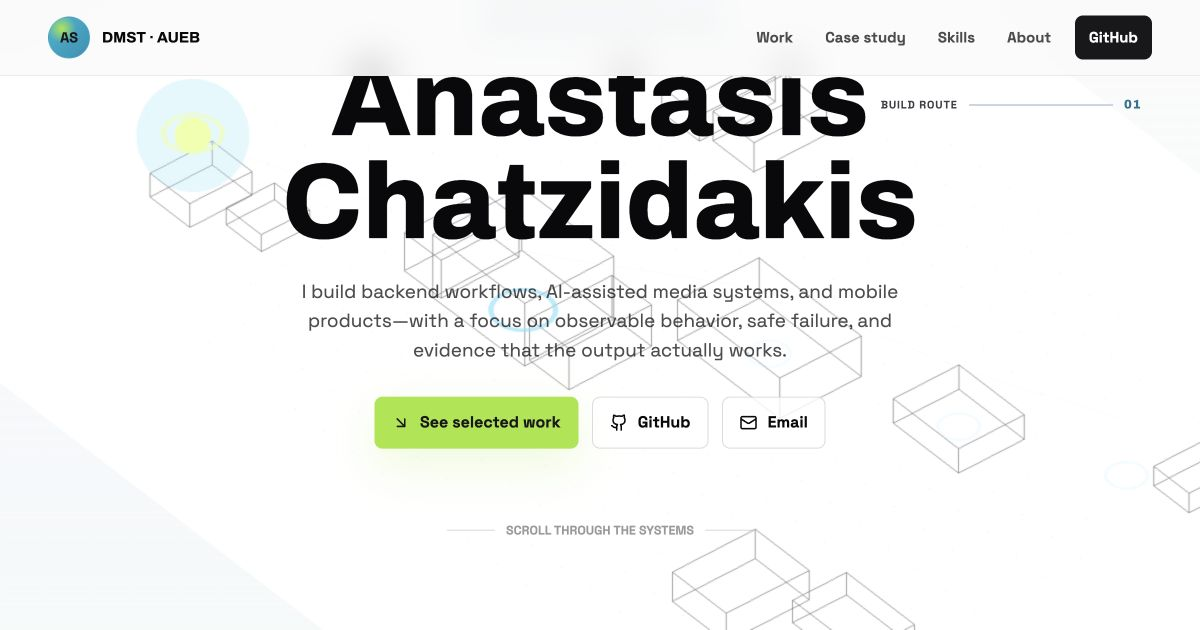
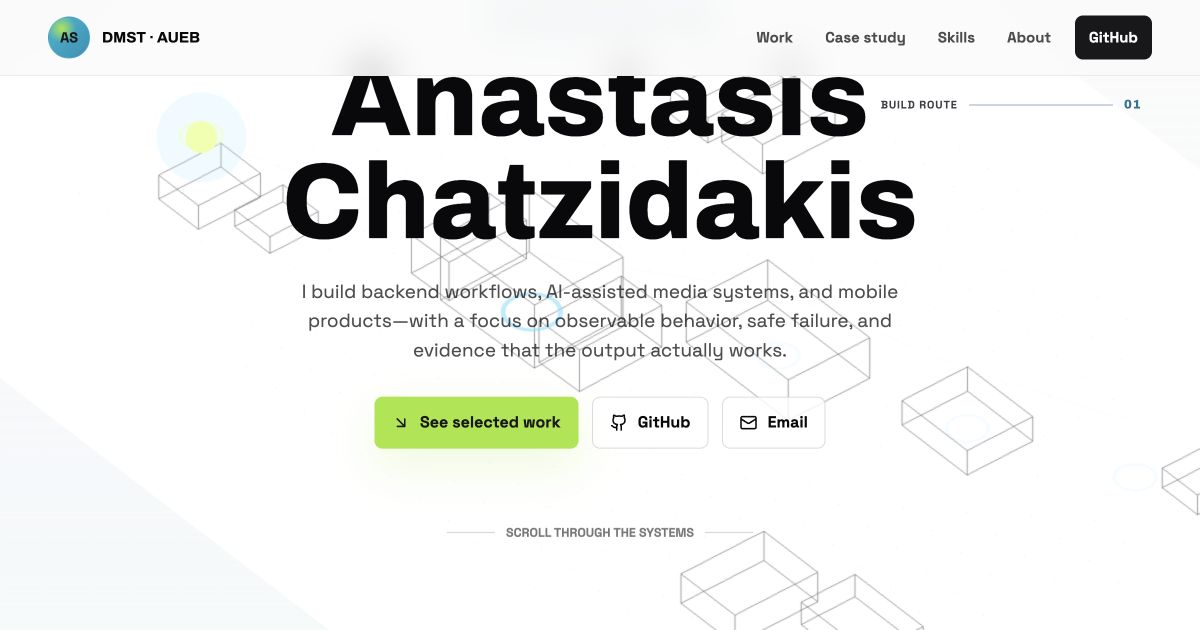
Deploy portfolio with GitHub Pages Actions

diff --git a/index.html b/index.html
@@ -5,7 +5,7 @@
     <meta name="viewport" content="width=device-width, initial-scale=1.0" />
     <meta
       name="description"
-      content="Portfolio of Anastasis Chatzidakis, a second-year DMST student at AUEB building backend workflows, AI-assisted media systems, and mobile products."
+      content="Portfolio of Anastasis Chatzidakis, a third-year DMST student at AUEB building backend workflows, AI-assisted media systems, and mobile products."
     />
     <meta name="theme-color" content="#fafafa" />
     <meta name="color-scheme" content="light" />
@@ -179,7 +179,7 @@
           </div>
 
           <div class="intro-copy intro-hero" data-intro-hero>
-            <p class="eyebrow">Second-year DMST student · Athens</p>
+            <p class="eyebrow">Third-year DMST student · Athens</p>
             <h1 id="hero-title">Anastasis Chatzidakis</h1>
             <p class="hero-lede">
               I build backend workflows, AI-assisted media systems, and mobile
@@ -784,7 +784,7 @@
             visible.
           </h2>
           <p>
-            I am a second-year Management Science and Technology student at the
+            I am a third-year Management Science and Technology student at the
             Athens University of Economics and Business. My projects sit where
             product thinking meets backend behavior: media automation,
             local-first mobile workflows, data modeling, and the safeguards that

diff --git a/README.md b/README.md
@@ -8,7 +8,7 @@ A static, responsive portfolio for internship and junior engineering application
 
 ## Positioning
 
-Anastasis is a second-year Management Science and Technology student at the Athens University of Economics and Business, focused on backend workflows, AI-assisted media systems, and mobile products.
+Anastasis is a third-year Management Science and Technology student at the Athens University of Economics and Business, focused on backend workflows, AI-assisted media systems, and mobile products.
 
 The flagship case study is [ShortsEngine](https://github.com/anaschatz/Shorts-Engine), an evidence-gated vertical-video production prototype. The case study intentionally distinguishes the current local/SQLite runtime from PostgreSQL, distributed worker, managed object-storage, and durable cost-telemetry milestones that are designed but not yet production-proven.
 
@@ -71,7 +71,9 @@ Reports are generated locally under `.lighthouse/` and are intentionally ignored
 
 ## Build and deployment
 
-`npm run build` copies the production-ready static site into `dist/`. The existing GitHub Pages deployment can continue serving the repository root; `dist/` is available for hosts that expect a build output directory.
+`npm run build` copies the production-ready static site into `dist/`. The Pages deployment workflow runs the full quality gate, uploads only `dist/`, and deploys it through GitHub Actions.
+
+The repository's GitHub Pages source must be set to **GitHub Actions**. Pushes to `main` deploy automatically, and the workflow can also be started manually with `workflow_dispatch`.
 
 No runtime environment variables or secrets are required.
 
